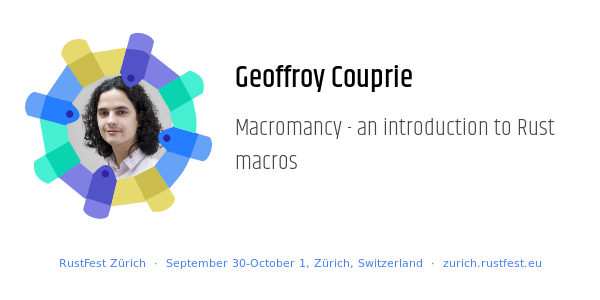
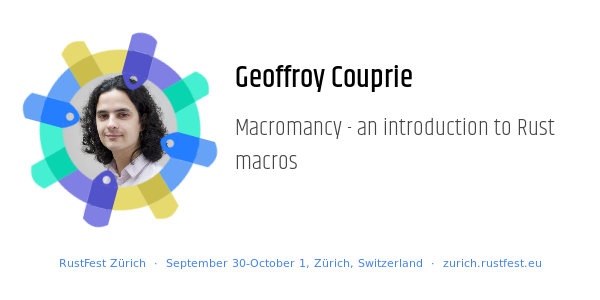
Update binary cache

diff --git a/README.md b/README.md
@@ -1,0 +1,9 @@
+# Social cards
+
+After merging (or checking out locally) you can go to **<url>/meta/twitter-card-generator/** to see a list of cards showing up. You may edit the _layout file for different descriptions (there's a JSON object), and to change the visuals (e.g. the SVG). 
+
+When you are done, you can just screenshot the cards and save them as a .png image into /assets/zurich/social/ under the same name as the speaker image is. I usually just use Firefox for this, in the devtools you can just right-click a card and click "Screenshot node", which saves a .png file of the correct size automatically into your "Downloads" folder.
+
+**Note** that these files are recompressed by Twitter as .jpegs, so there is no harm in having large files.
+
+The Twitter Card Validator service can be used for checking metadata (it also works on this page, it will show Ashley's card that is embedded in the metadata in <head>), but it only works for already-on-line pages, doesn't work with locally served devpages (as it uses Twitter's crawler). 
